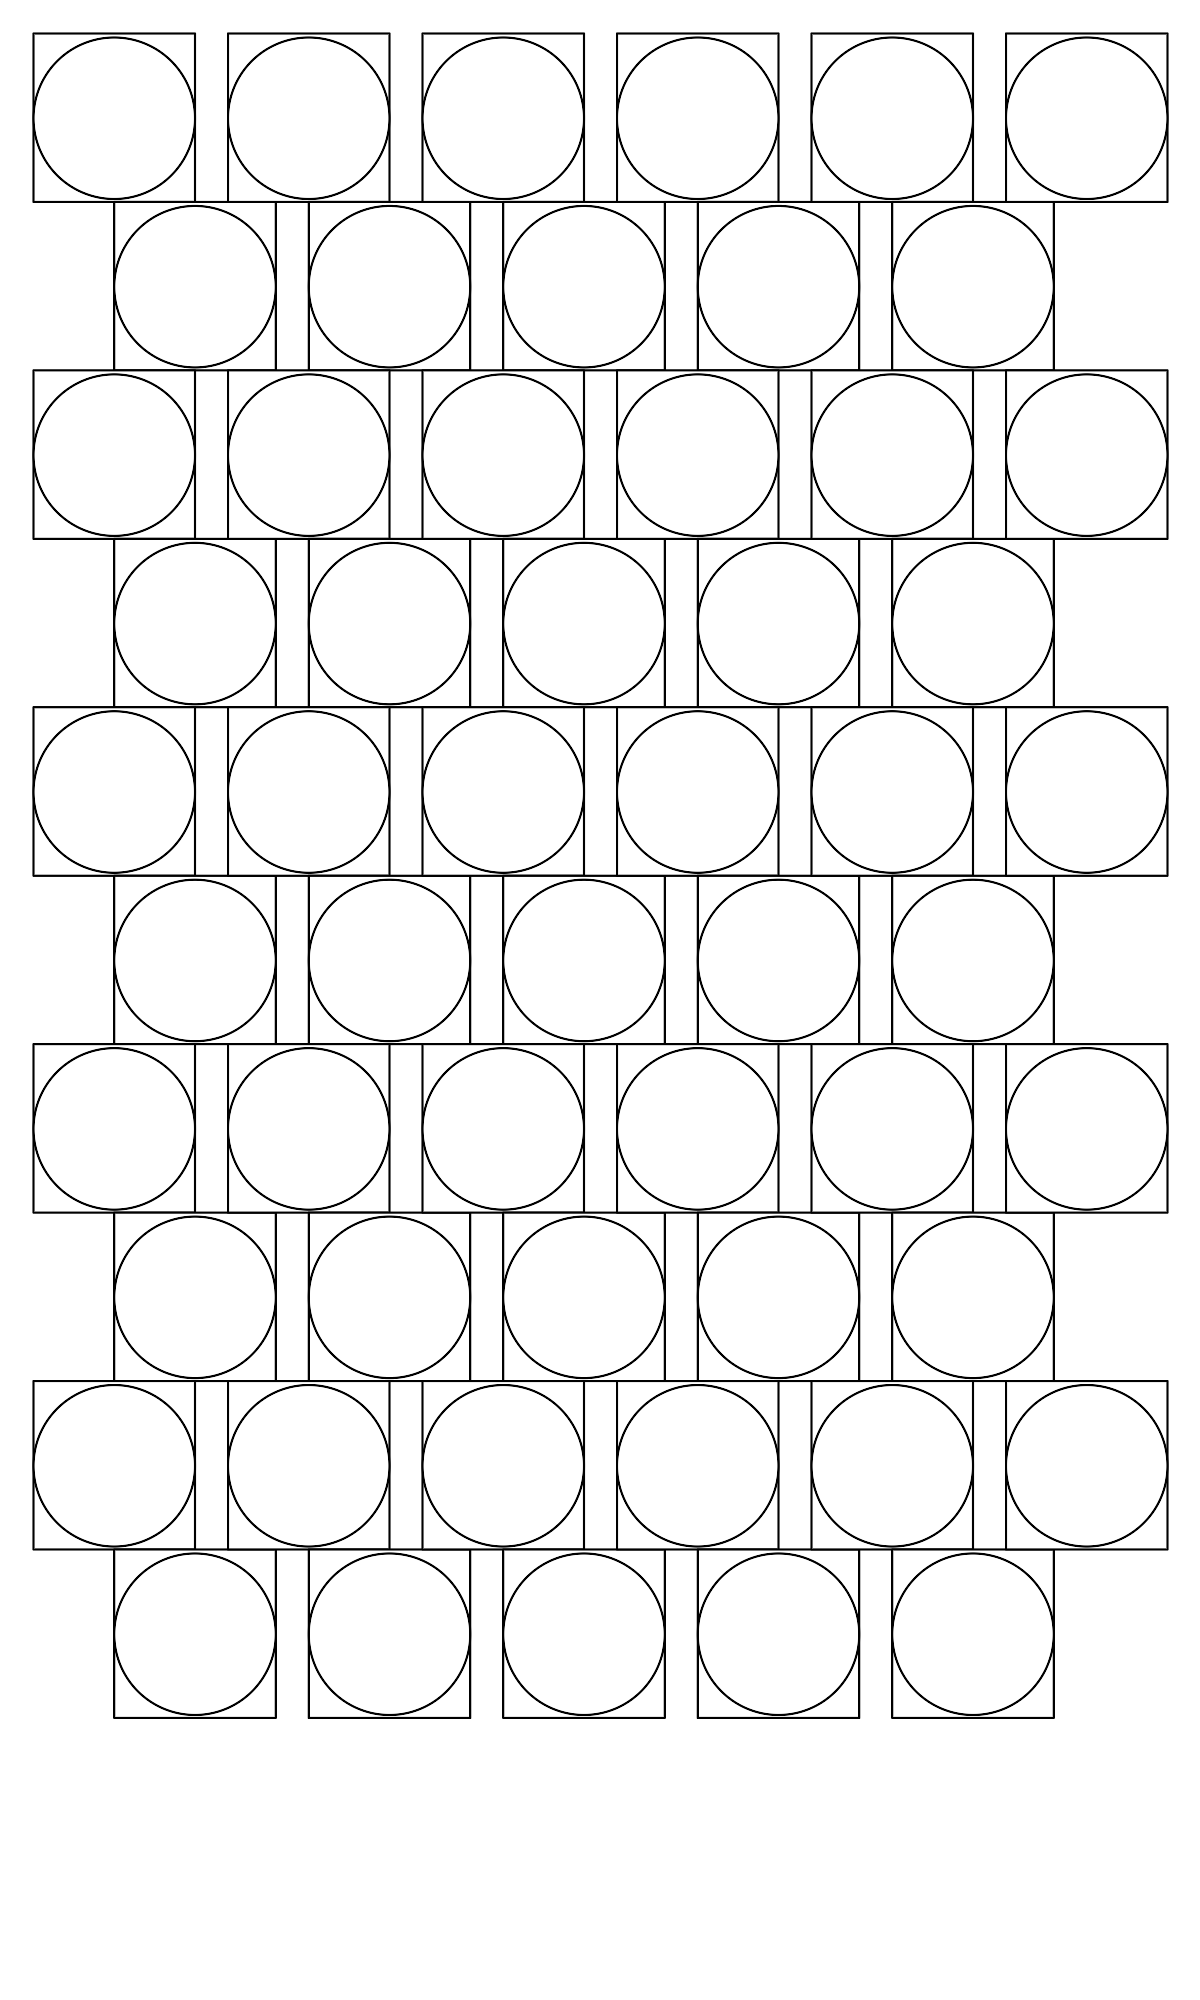
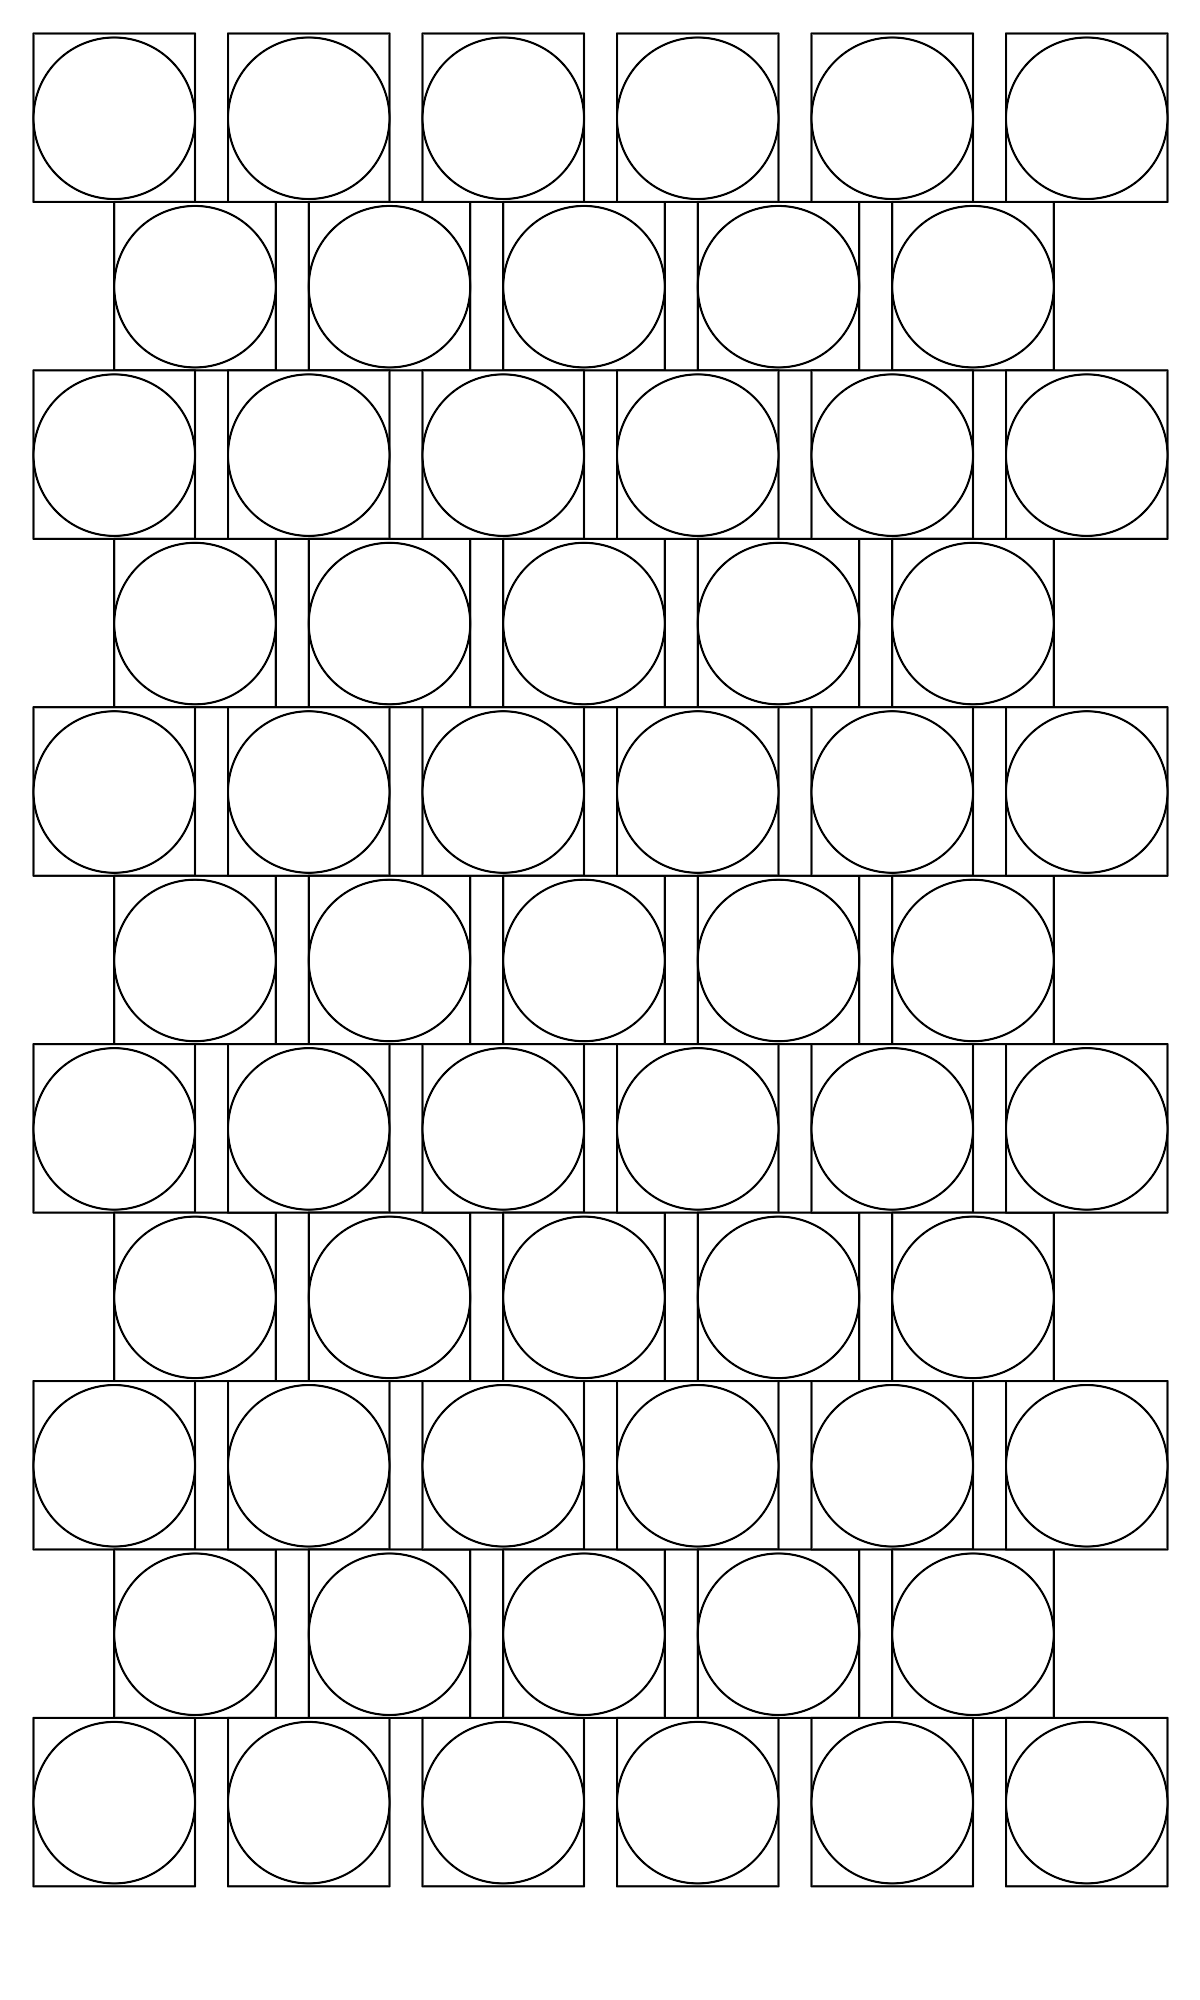
commit

diff --git a/drawing-templates-generator.py b/drawing-templates-generator.py
@@ -123,17 +123,24 @@ def get_square_size(page_size, spacing, columns):
 
 
 #  def get_max_lines(page_height, spacing, square_size):
-def get_max_lines(page_height, square_size, spacing, line_size):
-    page_height_without_outer_margins = page_height - (spacing*2)
+def get_max_lines(page_height, square_size, spacing, line_size, equidistant):
+    if equidistant:
+        #  page_height_without_outer_margins = page_height - spacing
+        page_height_without_outer_margins = page_height - (spacing*2)
+    else:
+        page_height_without_outer_margins = page_height - (spacing*2)
 
-    count = 0
-    total_size = 0
+    #  count = 0
+    #  total_size = 0
+    #
+    #  while total_size < page_height_without_outer_margins:
+    #      count += 1
+    #      total_size = (count * square_size) + ((count - 1) * spacing)
+    #
+    #  return count - 1
+    max_lines = round(page_height_without_outer_margins / line_size)
 
-    while total_size < page_height_without_outer_margins:
-        count += 1
-        total_size = (count * square_size) + ((count - 1) * spacing)
-
-    return count - 1
+    return max_lines
 
 
 def draw_and_write(width, height, spacing, columns, resolution, shape,
@@ -151,7 +158,8 @@ def draw_and_write(width, height, spacing, columns, resolution, shape,
         line_size = get_line_size(square_size, spacing, equidistant)
 
         lines = get_max_lines(page_height=height, spacing=spacing,
-                              square_size=square_size, line_size=line_size)
+                              square_size=square_size, line_size=line_size,
+                              equidistant=equidistant)
 
         squares = [(x+1, y+1) for x in range(columns) for y in range(lines)]
 
